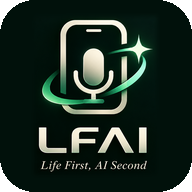
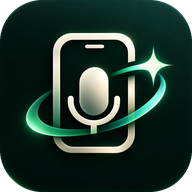
feat(lfai-registry): 헤더 로고 교체·홈 화면 추가 버튼·새 파비콘
박씨 지시: 계정 내 모든 랜딩 맨 위 메뉴 바 로고를 새 로고로, 파비콘·바로가기 아이콘은 별도 앱 아이콘으로.
- 헤더: 새 로고(S25 13:19) 마크 + LFAI 워드마크, 슬로건 Life First, AI Second 통일(없던 곳 추가, 옛 문구 교체)
- '홈 화면에 추가' 버튼: 크롬은 설치 창, 그 외 브라우저별 추가 방법 안내(삼성 인터넷·아이폰·앱 내 브라우저). 서비스 워커 없음
- 파비콘·바로가기: 앱 아이콘(S25 13:27)을 흰 모서리·테두리 없이 트림, ico 16·32·48, 180, 192, 512, 원형 마스크 512. 캐시 버전 v3
- 원본 로고 lfai-icons/lfai-logo.png, 앱 아이콘 lfai-icons/lfai-app-icon.png 저장
검증: 로컬 1366·412·390·375·361px, 로고 로드·버튼 표시·겹침 0·가로 스크롤 없음

diff --git a/index.html b/index.html
@@ -3,11 +3,11 @@
 <head>
 <meta charset="UTF-8">
 <meta name="viewport" content="width=device-width,initial-scale=1">
-<link rel="icon" href="lfai-icons/favicon.ico" sizes="any">
-<link rel="icon" type="image/png" sizes="32x32" href="lfai-icons/favicon-32.png">
-<link rel="icon" type="image/png" sizes="16x16" href="lfai-icons/favicon-16.png">
-<link rel="apple-touch-icon" sizes="180x180" href="lfai-icons/apple-touch-icon.png">
-<link rel="manifest" href="lfai.webmanifest">
+<link rel="icon" href="lfai-icons/favicon.ico?v=3" sizes="any">
+<link rel="icon" type="image/png" sizes="32x32" href="lfai-icons/favicon-32.png?v=3">
+<link rel="icon" type="image/png" sizes="16x16" href="lfai-icons/favicon-16.png?v=3">
+<link rel="apple-touch-icon" sizes="180x180" href="lfai-icons/apple-touch-icon.png?v=3">
+<link rel="manifest" href="lfai.webmanifest?v=3">
 <meta name="mobile-web-app-capable" content="yes"><meta name="apple-mobile-web-app-capable" content="yes"><meta name="apple-mobile-web-app-title" content="LFAI 등기">
 <title>LFAI REGISTRY — 등기·전자소송 모듈 · LFAI AS</title>
 <meta name="description" content="등기·전자소송 업무를 사건 조회·기한 계산·서식 준비까지 모듈로 맡깁니다. MCP로 쓰던 AI 에이전트에 연결하고, 최종 제출과 서명은 본인 인증으로 남깁니다.">
@@ -27,18 +27,20 @@
 <link rel="stylesheet" href="https://fonts.googleapis.com/css2?family=JetBrains+Mono:wght@500;700&display=swap">
 <link rel="stylesheet" href="assets/cw.css?v=3">
 <link rel="stylesheet" href="assets/p.css?v=2">
+<link rel="stylesheet" href="lfai-icons/lfai-head.css?v=2">
 </head>
 <body class="prod-reg">
 <a class="skip" href="#main">본문으로 건너뛰기</a>
 <header class="top">
   <div class="wrap">
-    <a class="logo" href="./" aria-label="LFAI REGISTRY 홈"><img src="assets/brand/logo-lfai.svg" alt="LFAI" width="750" height="323"><span class="ptag">AS · 01</span></a>
+    <a class="logo lfai-brand" href="./" aria-label="LFAI REGISTRY 홈"><img class="lfai-mark" src="lfai-icons/mark-96.png?v=3" alt="" width="36" height="36"><span class="lfai-word">LFAI</span><span class="ptag">AS · 01</span></a>
     <span class="brandline" lang="en">Life First, AI Second</span>
     <button class="burger" type="button" aria-label="메뉴 열기" aria-expanded="false" aria-controls="nav"><span></span><span></span><span></span></button>
     <nav class="nav" id="nav" aria-label="주 메뉴">
       <a href="#try">모듈 실행기</a><a href="#parts">기능</a><a href="#scope">안전 범위</a><a href="https://dimas-40.github.io/lfai-as/store.html">카탈로그</a>
       <a class="cta" href="https://dimas-40.github.io/lfai/contact/">도입 상담</a>
     </nav>
+    <button class="lfai-a2hs" type="button" aria-label="홈 화면에 추가"><svg viewBox="0 0 24 24" fill="none" stroke="currentColor" stroke-width="1.8" stroke-linecap="round" aria-hidden="true"><rect x="6" y="2.5" width="12" height="19" rx="2.5"/><path d="M12 9v6M9 12h6"/></svg><span>홈 화면에 추가</span></button>
   </div>
 </header>
 <main id="main">
@@ -220,5 +222,6 @@
 <div class="stick" id="stick"><a class="btn p" href="https://dimas-40.github.io/lfai/contact/">도입 상담</a><a class="btn s" href="https://dimas-40.github.io/lfai-as/store.html">카탈로그</a></div>
 <script src="assets/cw.js?v=1" defer></script>
 <script src="assets/p.js?v=1" defer></script>
+<script src="lfai-icons/lfai-head.js?v=1" defer></script>
 </body>
 </html>

diff --git a/lfai-icons/lfai-head.css b/lfai-icons/lfai-head.css
@@ -1,0 +1,30 @@
+/* LFAI 공통 헤더 브랜드 + 홈 화면 추가 버튼 */
+.lfai-brand{display:inline-flex!important;align-items:center;gap:10px;text-decoration:none!important;color:inherit;flex:none}
+.top .logo img.lfai-mark,.lfai-brand img.lfai-mark{width:36px!important;height:36px!important;border-radius:9px;box-shadow:0 2px 10px rgba(1,17,11,.28);display:block;flex:none}
+.lfai-word{font-family:Pretendard,"Pretendard Variable",system-ui,sans-serif;font-weight:800;font-size:21px;letter-spacing:.09em;line-height:1;color:#0d2a21}
+.top-nav .lfai-word{color:#eef3ee;font-size:16px}
+.top-nav .lfai-brand img.lfai-mark{width:28px!important;height:28px!important;border-radius:7px}
+.lfai-a2hs{display:inline-flex;align-items:center;gap:7px;flex:none;font:600 12.5px/1 Pretendard,system-ui,sans-serif;letter-spacing:.01em;padding:9px 13px;border:1px solid currentColor;border-radius:999px;background:transparent;color:#0d2a21;cursor:pointer;white-space:nowrap;margin-left:18px}
+.lfai-a2hs svg{width:15px;height:15px;flex:none}
+.lfai-a2hs:hover{background:#0d2a21;color:#fff}
+.top-nav .lfai-a2hs{color:#bfe9d6;border-color:rgba(191,233,214,.45);padding:6px 10px;font-size:11px;margin:0 8px 0 0}
+.top-nav .lfai-a2hs:hover{background:rgba(191,233,214,.12);color:#fff}
+.lfai-a2hs[hidden]{display:none!important}
+@media (max-width:760px){
+  .top .wrap .lfai-a2hs{order:2;margin-left:auto;padding:0;width:40px;height:40px;justify-content:center}
+  .top .wrap .lfai-a2hs span{display:none}
+  .top .wrap .burger{order:3;margin-left:8px!important}
+  .lfai-word{font-size:18px}
+  .top .logo img.lfai-mark{width:32px!important;height:32px!important}
+}
+@media (max-width:440px){.top .wrap{gap:9px!important}.top .wrap .brandline{font-size:8px!important;letter-spacing:.04em!important;max-width:66px!important;padding-left:8px!important;margin-left:0!important}.top .wrap .lfai-a2hs{width:36px;height:36px}.top .wrap .burger{width:38px!important;height:38px!important;margin-left:6px!important}.lfai-word{font-size:16px}.top .logo img.lfai-mark{width:30px!important;height:30px!important}.lfai-brand{gap:7px}.top .ptag{font-size:10px!important;padding:2px 6px!important}}
+@media (max-width:360px){.top .wrap .brandline{display:none}}
+.lfai-sheet{position:fixed;left:0;right:0;bottom:0;z-index:2000;background:#0b1f17;color:#eef3ee;padding:22px 22px calc(22px + env(safe-area-inset-bottom,0px));box-shadow:0 -20px 50px rgba(0,0,0,.35);font:15px/1.7 Pretendard,system-ui,sans-serif;transform:translateY(100%);transition:transform .28s ease}
+.lfai-sheet.on{transform:none}
+.lfai-sheet .row{display:flex;align-items:center;gap:14px;max-width:640px;margin:0 auto}
+.lfai-sheet img{width:52px;height:52px;border-radius:12px;flex:none}
+.lfai-sheet b{display:block;font-size:16px;color:#fff;margin-bottom:2px}
+.lfai-sheet p{margin:0;color:#c6d6cc;font-size:14px}
+.lfai-sheet button{margin-left:auto;flex:none;background:none;border:1px solid #2f4a3f;color:#c6d6cc;font:inherit;font-size:13px;padding:6px 12px;border-radius:999px;cursor:pointer}
+.lfai-bl{font-family:"JetBrains Mono",ui-monospace,monospace;font-size:11px;letter-spacing:.1em;text-transform:uppercase;color:#56645d;border-left:1px solid #e2e9e5;padding-left:16px;margin-left:-24px;white-space:nowrap;line-height:1.4}
+@media (max-width:900px){.lfai-bl{font-size:9px;letter-spacing:.06em;padding-left:10px;margin-left:-4px;white-space:normal;line-height:1.25;max-width:84px}}

diff --git a/lfai-icons/lfai-head.js b/lfai-icons/lfai-head.js
@@ -1,0 +1,28 @@
+/* 홈 화면에 추가 — 서비스 워커 없이, 브라우저별 안내 */
+(function(){
+  var btn=document.querySelector(".lfai-a2hs"); if(!btn) return;
+  var standalone=(window.matchMedia&&matchMedia("(display-mode: standalone)").matches)||navigator.standalone;
+  if(standalone){ btn.hidden=true; return; }
+  var ev=null, ua=navigator.userAgent;
+  window.addEventListener("beforeinstallprompt",function(e){ e.preventDefault(); ev=e; });
+  window.addEventListener("appinstalled",function(){ btn.hidden=true; });
+  function guide(){
+    if(/iPhone|iPad|iPod/.test(ua)) return "아래쪽 <b style='display:inline;font-size:inherit'>공유 버튼(□↑)</b>을 누르고 ‘홈 화면에 추가’를 고르세요.";
+    if(/KAKAOTALK|NAVER|Instagram|FBAN|FBAV|Line\//i.test(ua)) return "앱 안 브라우저에서는 추가가 안 됩니다. 오른쪽 위 메뉴에서 ‘다른 브라우저로 열기’ 후 다시 눌러 주세요.";
+    if(/SamsungBrowser/.test(ua)) return "아래 메뉴(≡) → ‘현재 페이지 추가’ → ‘홈 화면’을 고르세요.";
+    if(/Android/.test(ua)) return "오른쪽 위 메뉴(⋮) → ‘홈 화면에 추가’를 고르세요.";
+    return "주소창 오른쪽의 설치 아이콘, 또는 메뉴(⋮) → ‘바로가기 만들기’를 고르세요.";
+  }
+  function sheet(){
+    var s=document.querySelector(".lfai-sheet");
+    if(!s){ s=document.createElement("div"); s.className="lfai-sheet"; s.setAttribute("role","dialog"); s.setAttribute("aria-label","홈 화면에 추가");
+      var ic=(document.querySelector("link[rel=apple-touch-icon]")||{}).href||"";
+      s.innerHTML='<div class="row"><img alt="" src="'+ic+'"><div><b>홈 화면에 추가</b><p></p></div><button type="button">닫기</button></div>';
+      document.body.appendChild(s); s.querySelector("button").addEventListener("click",function(){ s.classList.remove("on"); }); }
+    s.querySelector("p").innerHTML=guide(); requestAnimationFrame(function(){ s.classList.add("on"); });
+  }
+  btn.addEventListener("click",function(){
+    if(ev){ ev.prompt(); ev.userChoice.then(function(){ ev=null; }); return; }
+    sheet();
+  });
+})();
